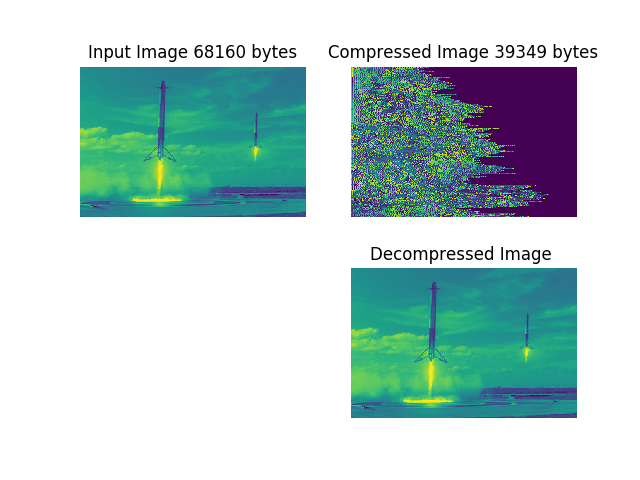
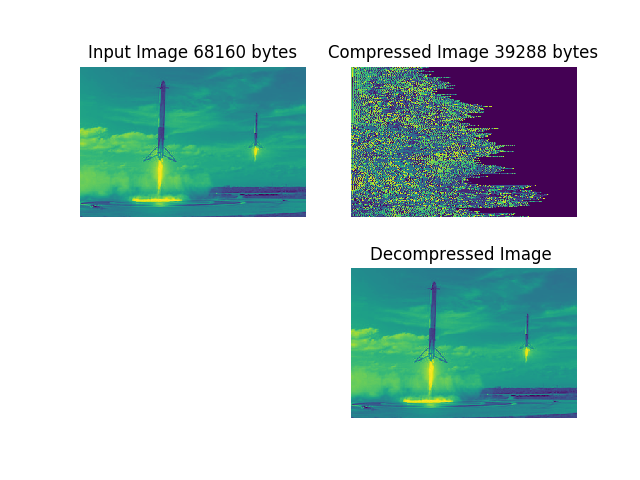
Bug fix which slightly improves results on image compression test, max duplicates set.

diff --git a/pytest/compress_duplicator.py b/pytest/compress_duplicator.py
@@ -63,7 +63,7 @@ def encoder_duplicates(data, max_duplicates=127, exclude=None):
             for j in range(i+2, len(data)):
                 if v == data[j]:
                     cnt_duplicates += 1
-                    if cnt_duplicates >= max_duplicates-1:
+                    if cnt_duplicates >= max_duplicates:
                         break
                 else:
                     break
